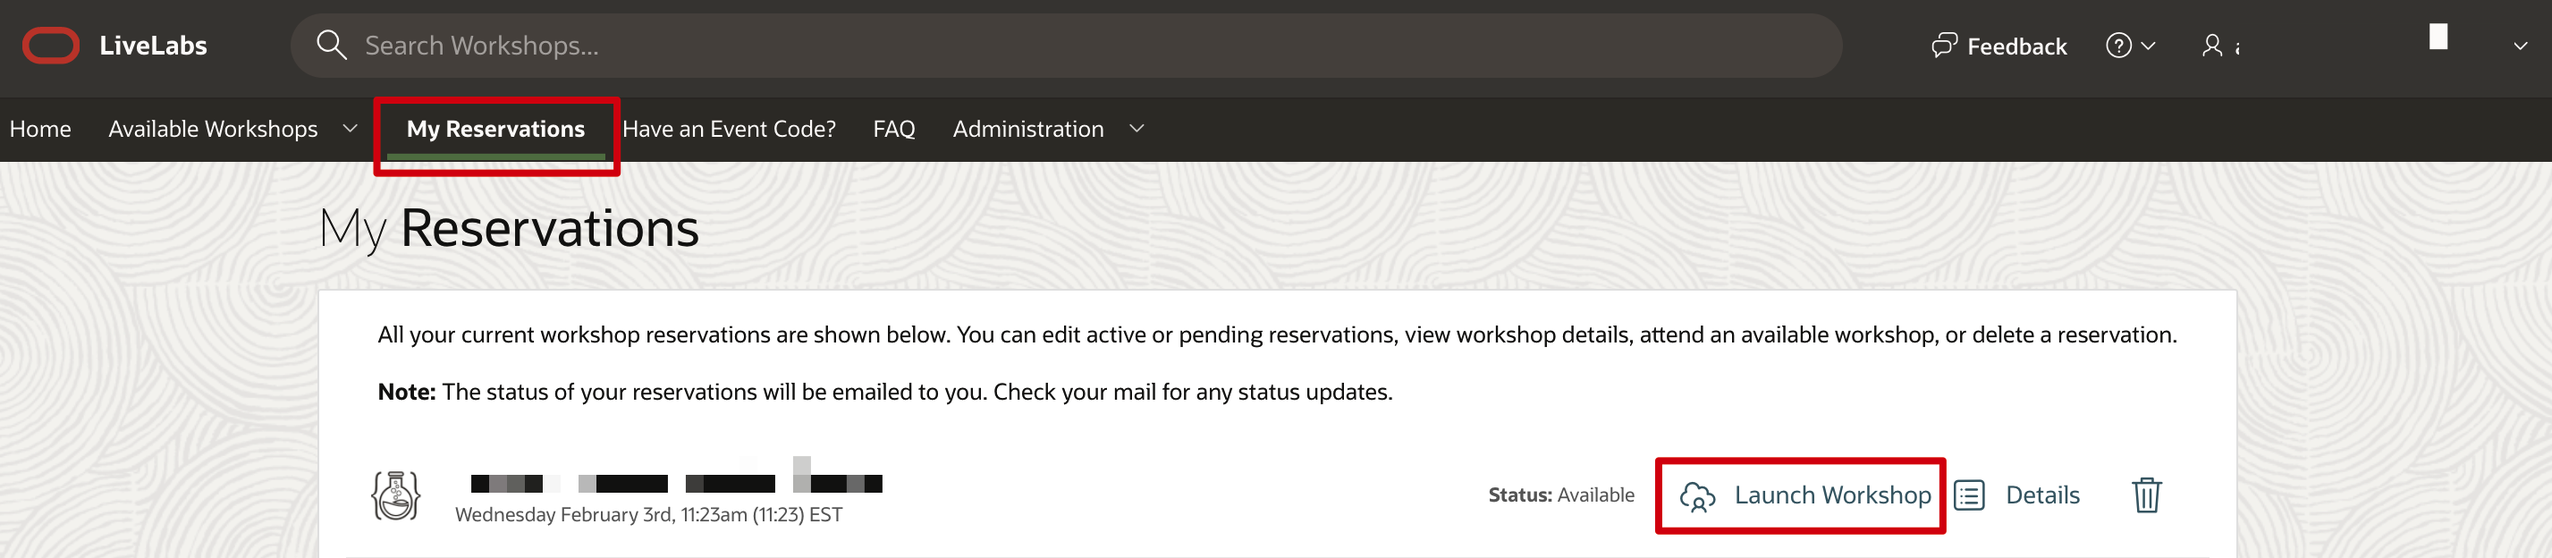
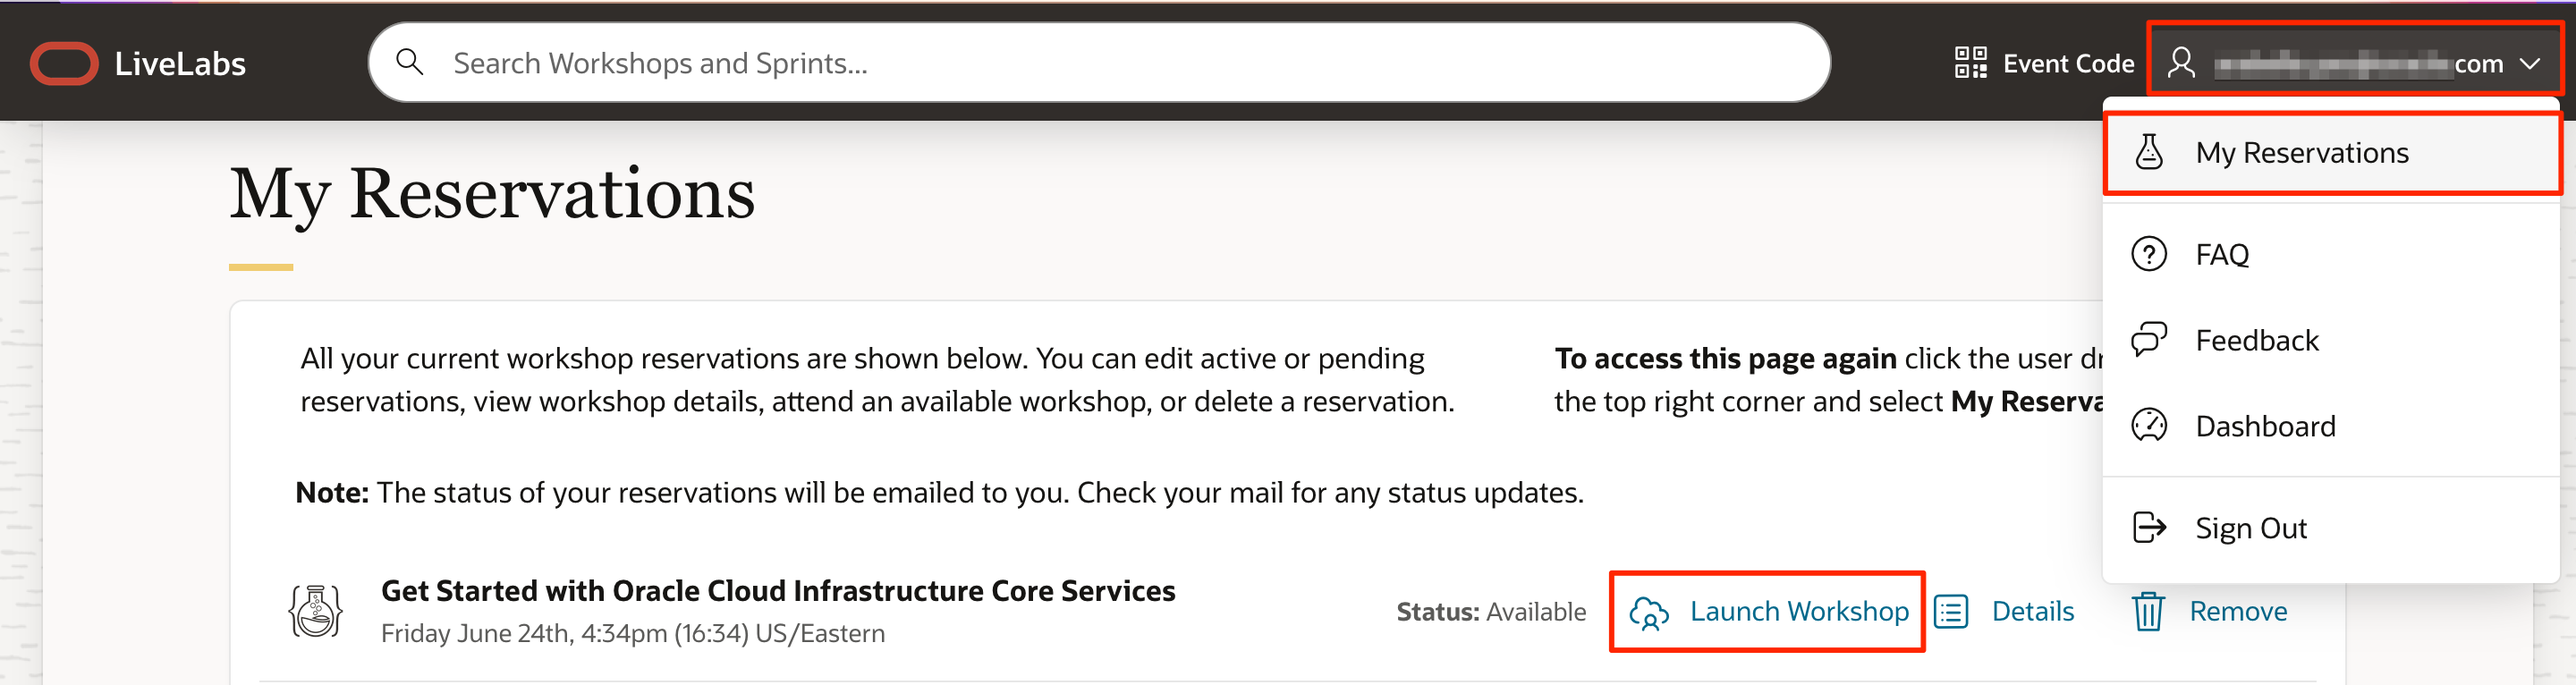
LiveLabs 4.0 Update: Get started labs

diff --git a/labs/cloud-login/cloud-login-livelabs-novnc.md b/labs/cloud-login/cloud-login-livelabs-novnc.md
@@ -35,46 +35,33 @@ Creating an Oracle account can be summarized in the following two simple steps.
 
 ## Task 2: Request Workshop Reservation
 
-1. Using your *Oracle Account Login* go to [LiveLabs 2.0](http://bit.ly/golivelabs) and click ![Reserve](images/reserve.png) to request a reservation for this workshop.
+1. Using your *Oracle Account Login* go to [LiveLabs](http://bit.ly/golivelabs). Open a workshop, click **Start**, and then **Run on LiveLabs** to request a reservation for this workshop.
+  ![Run on LiveLabs](images/run-on-livelabs.png " ")
 
-2. After creating a reservation for a LiveLab Workshop, you will receive an e-mail indicating that your reservation is being processed, followed by an e-mail indicating that your environment has been created.
+2. Fill out information on the *Reserve Workshop* page. Check **I consent to recieve emails from LiveLabs for my reservation**. Click **Submit Reservation**.
+  ![Submit Reservation](images/submit-reservation.png " ")
+
+3. After creating a reservation for a LiveLab Workshop, you will receive an e-mail indicating that your reservation is being processed, followed by an e-mail indicating that your environment has been created.
 
   ![Reservation email](images/livelab-env-created-email.png " ")
 
   >**Note:** You will receive the second created e-mail just before your selected reservation time.
 
-3. Log into LiveLabs and click **My Reservations**, then click the **Launch Workshop** link for the Workshop environment you'd like to use. Note that you may have several Workshops listed.
+4. Log into LiveLabs. Click your username, and click **My Reservations**. Then click the **Launch Workshop** link for the Workshop environment you'd like to use. Note that you may have several Workshops listed.
 
   ![My reservations](images/ll-reservations.png " ")
 
-4. Click on the **Remote Desktop** URL to access the VM instance.
+5. Click **View Login Info** and click **Launch Remote Desktop** to access the VM instance.
 
   ![Remote Desktop](images/launch-ll-workshop-novnc.png " ")
 
-5. Optionally, open the lab instructions by choosing one of the two options. The recommended method as detailed in the next lab is to open the guide from the remote desktop session
-
-  ![Open lab instructions](images/open-workshop-guide-novnc.png " ")
+6. If you need to view your login information anytime, click **View Login Info**.
+  ![View Login Info](../need-help/images/view-login-info.png " ")
 
 You may now **proceed to the next lab**.
-
-## Rate this Workshop
-
-When you are finished don't forget to rate this workshop!  We rely on this feedback to help us improve and refine our LiveLabs catalog.  Follow the steps to submit your rating.
-
-1.  Go back to your **workshop homepage** in LiveLabs by searching for your workshop and clicking the Launch button.
-
-2.  Click on the **Brown Button** to re-access the workshop
-
-    ![Brown Button](images/workshop-homepage-2.png " ")
-
-3.  Click **Rate this workshop**
-
-    ![Rate this workshop](images/rate-this-workshop.png " ")
-
-If you still have an active reservation, you can also rate by going to My Reservations -> Launch Workshop.
 
 ## Acknowledgements
 
 - **Created By/Date** - Kay Malcolm, Database Product Management March 2020
 - **Contributors** - Rene Fontcha, Kamryn Vinson, Anoosha Pilli, Arabella Yao
-- **Last Updated By/Date** - Arabella Yao, 2022
+- **Last Updated By/Date** - Arabella Yao, Jun 2022

diff --git a/labs/cloud-login/cloud-login-livelabs.md b/labs/cloud-login/cloud-login-livelabs.md
@@ -35,25 +35,31 @@ Creating an Oracle account can be summarized in the following two simple steps.
 
 ## Task 2: Request Workshop Reservation
 
-1. Using your *Oracle Account Login* go to [LiveLabs 2.0](http://bit.ly/golivelabs) and click ![Reserve](images/reserve.png) to request a reservation for this workshop.
+1. Using your *Oracle Account Login* go to [LiveLabs](http://bit.ly/golivelabs). Open a workshop, click **Start**, and then **Run on LiveLabs** to request a reservation for this workshop.
+  ![Run on LiveLabs](images/run-on-livelabs.png " ")
 
-2. After creating a reservation for a LiveLab Workshop, you will receive an e-mail indicating that your reservation is being processed, followed by an e-mail indicating that your environment has been created.
+2. Fill out information on the *Reserve Workshop* page. Check **I consent to recieve emails from LiveLabs for my reservation**. Click **Submit Reservation**.
+  ![Submit Reservation](images/submit-reservation.png " ")
 
-  ![Reservation Email](images/livelab-env-created-email.png " ")
+3. After creating a reservation for a LiveLab Workshop, you will receive an e-mail indicating that your reservation is being processed, followed by an e-mail indicating that your environment has been created.
+
+  ![Reservation email](images/livelab-env-created-email.png " ")
 
   >**Note:** You will receive the second created e-mail just before your selected reservation time.
 
-3. Log into LiveLabs and click **My Reservations**, then click the **Launch Workshop** link for the Workshop environment you'd like to use. Note that you may have several Workshops listed.
+4. Log into LiveLabs. Click your username, and click **My Reservations**. Then click the **Launch Workshop** link for the Workshop environment you'd like to use. Note that you may have several Workshops listed.
 
-  ![Launch Workshop](images/ll-reservations.png " ")
+  ![My reservations](images/ll-reservations.png " ")
 
-4. Follow the instructions provided to log in to your Oracle Cloud account, change your password, and complete your login to Oracle Cloud.
+5. Click **View Login Info** and click **Launch OCI**.
+  ![Launch OCI](images/launch-oci.png " ")
 
-  ![Complete login to Oracle Cloud](images/launch-ll-workshop.png " ")
+6. Follow the instructions provided to log in to your Oracle Cloud account, change your password, and complete your login to Oracle Cloud.
 
-5. Finally, open the lab instructions by choosing one of the two options.
+  ![Login information](../need-help/images/login-demo1.png " ")
 
-  ![Open the lab instructions](images/open-workshop.png " ")
+7. If you need to view your login information anytime, click **View Login Info**.
+  ![View Login Info](../need-help/images/view-login-info.png " ")
 
 You may now **proceed to the next lab**.
 
@@ -61,4 +67,4 @@ You may now **proceed to the next lab**.
 
 - **Created By/Date** - Kay Malcolm, Database Product Management, March 2020
 - **Contributors** - Rene Fontcha, Kamryn Vinson, Anoosha Pilli, Arabella Yao
-- **Last Updated By/Date** - Arabella Yao, May 2022
+- **Last Updated By/Date** - Arabella Yao, Jun 2022

diff --git a/labs/cloud-login/cloud-login-livelabs2.md b/labs/cloud-login/cloud-login-livelabs2.md
@@ -35,25 +35,31 @@ Creating an Oracle account can be summarized in the following two simple steps.
 
 ## Task 2: Request Workshop Reservation
 
-1. Using your *Oracle Account Login* go to [LiveLabs 2.0](http://bit.ly/golivelabs) and click ![Reserve](images/reserve.png) to request a reservation for this workshop.
+1. Using your *Oracle Account Login* go to [LiveLabs](http://bit.ly/golivelabs). Open a workshop, click **Start**, and then **Run on LiveLabs** to request a reservation for this workshop.
+  ![Run on LiveLabs](images/run-on-livelabs.png " ")
 
-2. After creating a reservation for a LiveLab Workshop, you will receive an e-mail indicating that your reservation is being processed, followed by an e-mail indicating that your environment has been created.
+2. Fill out information on the *Reserve Workshop* page. Check **I consent to recieve emails from LiveLabs for my reservation**. Click **Submit Reservation**.
+  ![Submit Reservation](images/submit-reservation.png " ")
 
-  ![Reservation Email](images/livelab-env-created-email.png " ")
+3. After creating a reservation for a LiveLab Workshop, you will receive an e-mail indicating that your reservation is being processed, followed by an e-mail indicating that your environment has been created.
+
+  ![Reservation email](images/livelab-env-created-email.png " ")
 
   >**Note:** You will receive the second created e-mail just before your selected reservation time.
 
-3. Log into LiveLabs and click **My Reservations**, then click the **Launch Workshop** link for the Workshop environment you'd like to use. Note that you may have several Workshops listed.
+4. Log into LiveLabs. Click your username, and click **My Reservations**. Then click the **Launch Workshop** link for the Workshop environment you'd like to use. Note that you may have several Workshops listed.
 
-  ![My Reservations](images/ll-reservations.png " ")
+  ![My reservations](images/ll-reservations.png " ")
 
-4. Follow the instructions provided to log in to your Oracle Cloud account, change your password, and complete your login to Oracle Cloud.
+5. Click **View Login Info** and click **Launch OCI**.
+  ![Launch OCI](images/launch-oci.png " ")
 
-  ![Complete login to Oracle Cloud](images/launch-ll-workshop.png " ")
+6. Follow the instructions provided to log in to your Oracle Cloud account, change your password, and complete your login to Oracle Cloud.
 
-5. Finally, open the lab instructions by choosing one of the two options.
+  ![Login information](../need-help/images/login-demo1.png " ")
 
-  ![Open lab instructions](images/open-workshop.png " ")
+7. If you need to view your login information anytime, click **View Login Info**.
+  ![View Login Info](../need-help/images/view-login-info.png " ")
 
 You may now **proceed to the next lab**.
 
